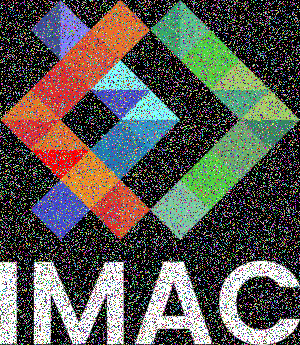
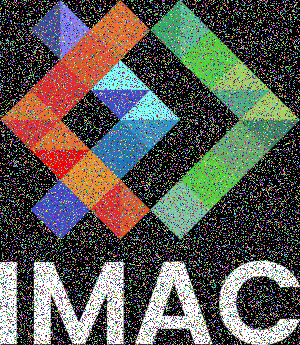
Mise à jour (mardi)

diff --git a/src/main.cpp b/src/main.cpp
@@ -59,7 +59,7 @@ void negatif(sil::Image &image){
 
 // Dégradé
 void gradiant(sil::Image &image){
-    ;
+    
     for (int x{0}; x < image.width(); ++x)
     {
         for (int y{0}; y < image.height(); ++y)
@@ -115,9 +115,200 @@ void rotating(sil::Image&image){
 // RGB split
 void rgb_split(sil::Image&image){
 
+    sil::Image image_split{image};
+
+      for(int x{0}; x < image.width(); x++) {
+        for(int y{0}; y < image.height(); y++) {
+
+            if(x < 30) {
+                image_split.pixel(x, y).b = image.pixel(x + 30, y).b;
+            } else if (x > image.width() - 31) {
+                image_split.pixel(x, y).r = image.pixel(x - 30, y).r;
+            } else {
+                image_split.pixel(x, y).r = image.pixel(x - 30, y).r;
+                image_split.pixel(x, y).b = image.pixel(x + 30, y).b;
+            }
+        }
+    }
+    image = image_split;
 }
 
-//
+// Luminosité (éclaircissement & assombrissement)
+void light_luminosity(sil::Image&image){
+
+    for(int x{0}; x < image.width(); x++) {
+        for(int y{0}; y < image.height(); y++) {
+            image.pixel(x, y).r = std::sqrt(image.pixel(x, y).r);
+            image.pixel(x, y).g = std::sqrt(image.pixel(x, y).g);
+            image.pixel(x, y).b = std::sqrt(image.pixel(x, y).b);
+        }
+    }
+}
+
+void dark_Luminosity(sil::Image &image) {
+    for(int x{0}; x < image.width(); x++) {
+        for(int y{0}; y < image.height(); y++) {
+            image.pixel(x, y).r = std::pow(image.pixel(x, y).r, 2);
+            image.pixel(x, y).g = std::pow(image.pixel(x, y).g, 2);
+            image.pixel(x, y).b = std::pow(image.pixel(x, y).b, 2);
+        }
+    }
+}
+
+// Disque 
+void disk(sil::Image&image){
+
+    int a{image.width()/2};
+    int b{image.height()/2};
+    int r{100};
+
+    for (int x{0}; x < 500; ++x)
+    {
+        for (int y{0}; y < 500; ++y)
+        {
+            if((pow(x-a, 2) + pow(y-b, 2)) < pow(r, 2)) {
+                image.pixel(x, y).r = 1;
+                image.pixel(x, y).g = 0;
+                image.pixel(x, y).b = 0;
+            }
+            else{
+                image.pixel(x, y).r = 1;
+                image.pixel(x, y).g = 1;
+                image.pixel(x, y).b = 1;
+                // drapeau japon 
+            }
+            
+        }
+    }
+}
+
+// Cercle 
+void circle(sil::Image&image){
+
+    int a{image.width()/2};
+    int b{image.height()/2};
+    int r{100};
+    int thickness{10};
+
+    for (int x{0}; x < image.width(); x++)
+
+    {
+        for (int y{0}; y < image.height(); y++)
+
+        {
+            if(pow(x-a, 2) + pow(y-b, 2) < pow(r - thickness, 2)) {
+                image.pixel(x, y).r = 0;
+                image.pixel(x, y).g = 0;
+                image.pixel(x, y).b = 0;
+            }
+            else if (pow(x-a, 2) + pow(y-b, 2) < pow(r, 2)){
+                image.pixel(x, y).r = 1;
+                image.pixel(x, y).g = 1;
+                image.pixel(x, y).b = 1;
+            }
+
+            else{
+                image.pixel(x, y).r = 0;
+                image.pixel(x, y).g = 0;
+                image.pixel(x, y).b = 0;
+
+            }
+
+        }
+    }
+}
+
+// Animation 
+void animation(sil::Image&image){
+
+    int a{0};
+    int b{image.height()/2};
+    int r{100};
+
+    while (a < 500)
+    {
+        a++;
+        for (int x{0}; x < 500; ++x)
+        {
+            for (int y{0}; y < 500; ++y)
+            {
+                if((pow(x-a, 2) + pow(y-b, 2)) < pow(r, 2)) {
+                    image.pixel(x, y).r = 1;
+                    image.pixel(x, y).g = 0;
+                    image.pixel(x, y).b = 0;
+                }
+                else{
+                    image.pixel(x, y).r = 1;
+                    image.pixel(x, y).g = 1;
+                    image.pixel(x, y).b = 1; 
+                }
+                
+            }
+        }
+        image.save("output/anim/animation"+std::to_string(a)+".png");
+    }
+    
+   
+        
+    }
+    
+    
+
+
+// Rosace
+void rosace(sil::Image &image)
+{
+
+    int r{100};
+    int thickness{5};
+
+    for (int x{0}; x < image.width(); x++)
+
+    {
+        for (int y{0}; y < image.height(); y++)
+
+        {
+
+            int dx = x - image.width() / 2;
+            int dy = y - image.height() / 2;
+            if ((dx * dx + dy * dy <= r * r) && (dx * dx + dy * dy > (r - thickness) * (r - thickness)))
+            {
+                image.pixel(x, y).r = 1.0f;
+                image.pixel(x, y).g = 1.0f;
+                image.pixel(x, y).b = 1.0f;
+            }
+        }
+    }
+    int centreX = image.width() / 2;
+    int centreY = image.height() / 2;
+    float angleStep = 2 * 3.14 / 6;
+    for (int i = 0; i < 6; i++)
+    {
+        float angle = i * angleStep;
+        int offsetX = static_cast<int>(r * cos(angle));
+        int offsetY = static_cast<int>(r * sin(angle));
+
+        for (int x = 0; x < image.width(); x++)
+        {
+            for (int y = 0; y < image.height(); y++)
+            {
+                int dx = x - centreX - offsetX;
+                int dy = y - centreY - offsetY;
+
+                if ((dx * dx + dy * dy <= r * r) && (dx * dx + dy * dy > (r - thickness) * (r - thickness)))
+                {
+                    image.pixel(x, y).r = 1.0f;
+                    image.pixel(x, y).g = 1.0f;
+                    image.pixel(x, y).b = 1.0f;
+                }
+            }
+        }
+    }
+}
+
+// 
+
+
 int main()
 {
     {
@@ -163,7 +354,35 @@ int main()
     {
         sil::Image image{"images/logo.png"};
         rgb_split(image); 
-        image.save("output/pouet.png"); // Sauvegarde l'image
+        image.save("output/rgb_split.png"); // Sauvegarde l'image
     }
-    // bhjgj
+    {
+        sil::Image image{"images/photo.jpg"};
+        light_luminosity(image); 
+        image.save("output/light_luminosity.jpg"); // Sauvegarde l'image
+    }
+    {
+        sil::Image image{"images/photo.jpg"};
+        dark_Luminosity(image); 
+        image.save("output/dark_luminosity.jpg"); // Sauvegarde l'image
+    }
+    {
+        sil::Image image{500, 500}; // Lis l'image
+        disk(image); // Utilise la fonction pour modifier l'image
+        image.save("output/disk.png"); // Sauvegarde l'image
+    }
+    {
+        sil::Image image{500, 500}; // Lis l'image
+        circle(image); // Utilise la fonction pour modifier l'image
+        image.save("output/circle.png"); // Sauvegarde l'image
+    }
+    {
+        sil::Image image{500, 500}; // Lis l'image
+        animation(image); // Utilise la fonction pour modifier l'image
+    }
+    {
+        sil::Image image{500, 500}; // Lis l'image
+        rosace(image); // Utilise la fonction pour modifier l'image
+        image.save("output/rosace.png"); // Sauvegarde l'image
+    }
 }
